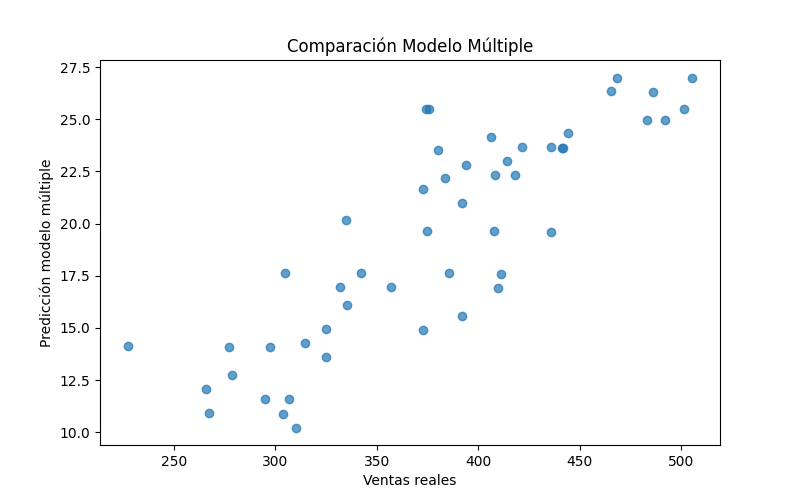
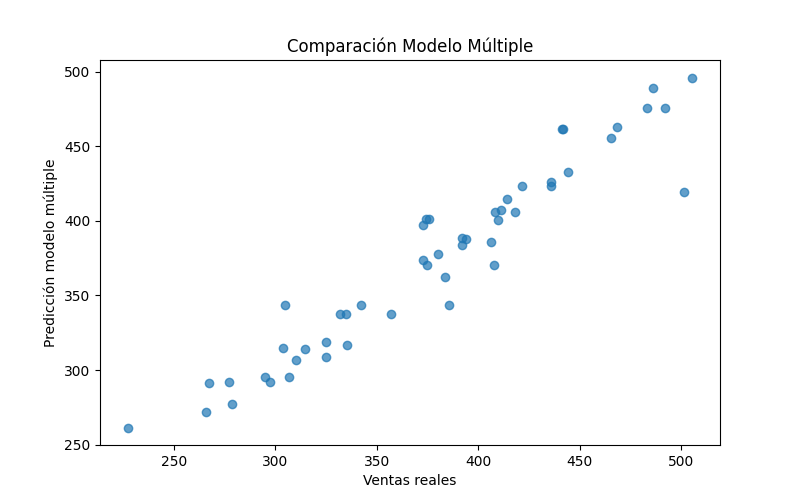
fix: arreglo de la evaluacion en X de la evaluacion comparativa

diff --git a/src/evaluacion_comparativa.py b/src/evaluacion_comparativa.py
@@ -5,6 +5,7 @@ import matplotlib
 matplotlib.use('Agg')  # backend para guardar imágenes siempre
 import tensorflow as tf
 from sklearn.metrics import mean_squared_error, mean_absolute_error
+from sklearn.preprocessing import MinMaxScaler
 
 
 def evaluar_modelos():
@@ -20,7 +21,7 @@ def evaluar_modelos():
     # Predicción modelo simple (usa solo Temperatura)
     temp = df['Temperatura'].values.reshape(-1, 1)
 
-    # Predicción SIN normalizar (modelo entrenado así)
+    # Predicción SIN normalizar (modelo simple entrenado así)
     pred_simple = modelo_simple.predict(temp)
 
     # Métricas modelo simple
@@ -33,8 +34,22 @@ def evaluar_modelos():
     # Features del modelo múltiple
     X_mult = df[['Temperatura', 'Promocion', 'Fin_de_Semana']].values
 
-    # Predicción del modelo múltiple (sin normalizar)
-    pred_mult = modelo_multiple.predict(X_mult)
+    # Normalización (IMPORTANTE: debe ser el MISMO proceso que en el entrenamiento)
+    scaler_x = MinMaxScaler()
+    scaler_y = MinMaxScaler()
+
+    # Ajustar scaler con TODO el dataset original
+    scaler_x.fit(X_mult)
+    scaler_y.fit(df['Ventas'].values.reshape(-1, 1))
+
+    # Normalizar features
+    X_scaled = scaler_x.transform(X_mult)
+
+    # Predicción
+    pred_mult_scaled = modelo_multiple.predict(X_scaled)
+
+    # Desnormalizar predicción para obtener valores reales de ventas
+    pred_mult = scaler_y.inverse_transform(pred_mult_scaled)
 
     # Métricas modelo múltiple
     mse_mult = mean_squared_error(df['Ventas'], pred_mult)
@@ -60,7 +75,7 @@ def evaluar_modelos():
     plt.title("Comparación Modelo Múltiple")
     plt.savefig("resultados/graficos/comparacion_multiple.png")
     plt.close()
-    
+
     # Comparación ambos modelos
     plt.figure(figsize=(8,5))
     plt.plot(df.index, df['Ventas'], label="Ventas reales")
@@ -79,6 +94,7 @@ def evaluar_modelos():
         "Modelo_Multiple": {"MSE": mse_mult, "MAE": mae_mult}
     }
 
+
 resultados = evaluar_modelos()
 print("Resultados comparativos:")
 print(resultados)
@@ -87,5 +103,6 @@ print(resultados)
 if __name__ == "__main__":
     evaluar_modelos()
     print("Ejecución completada.")
+
 
 
